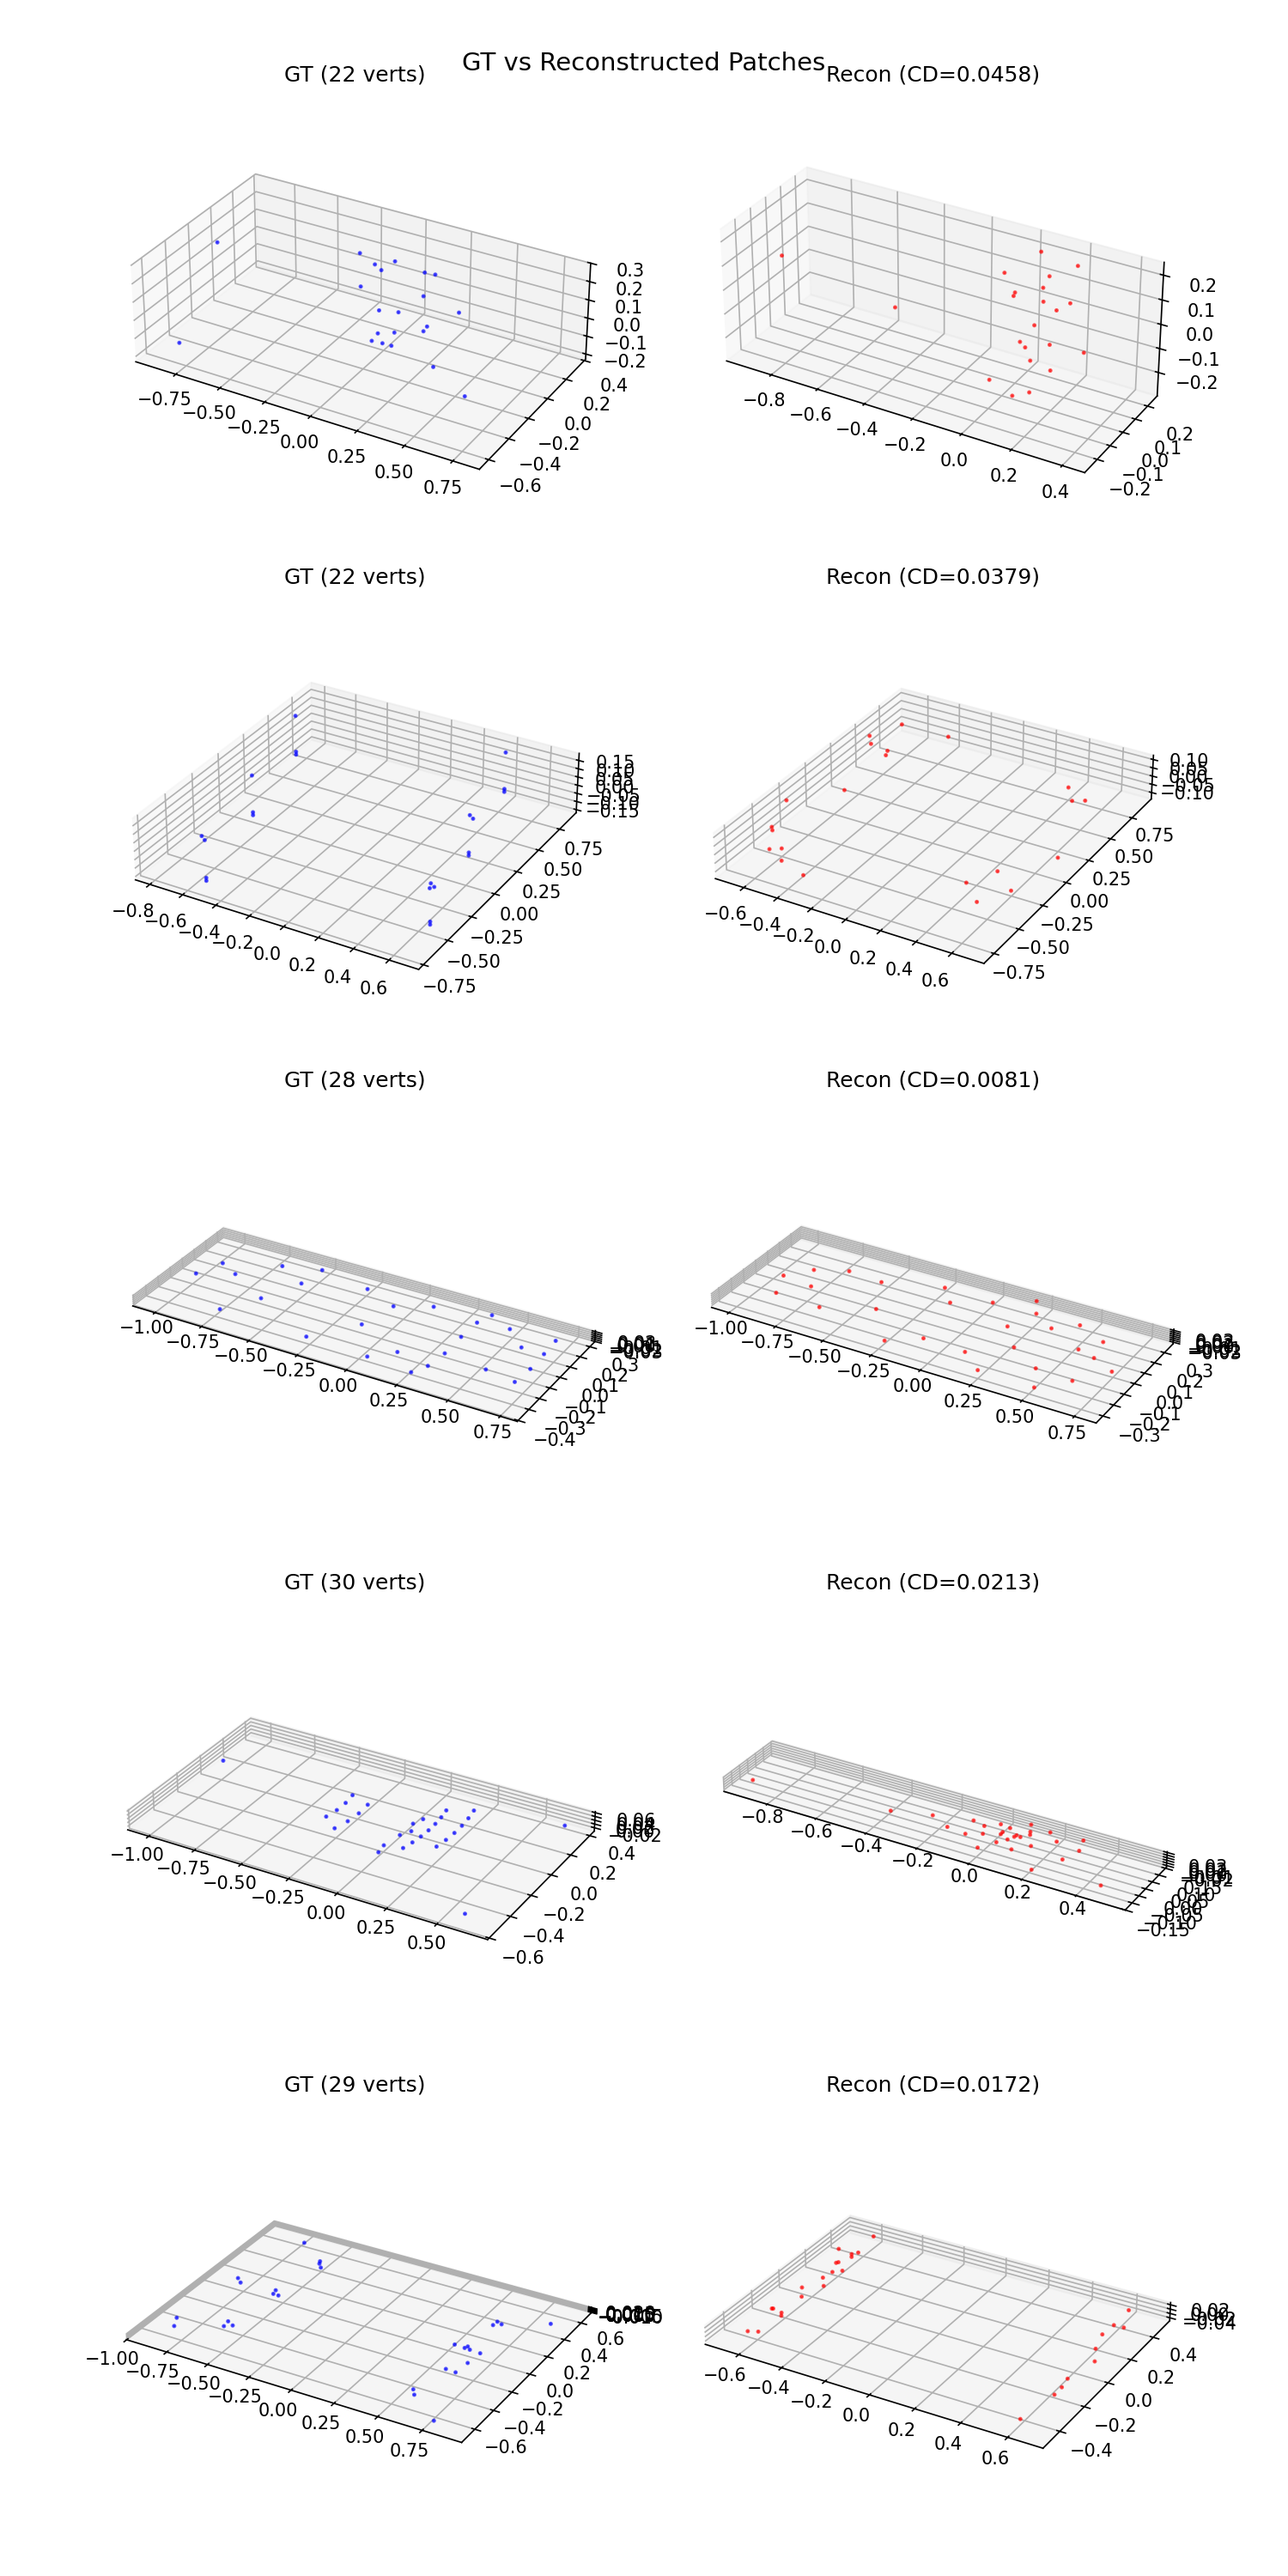
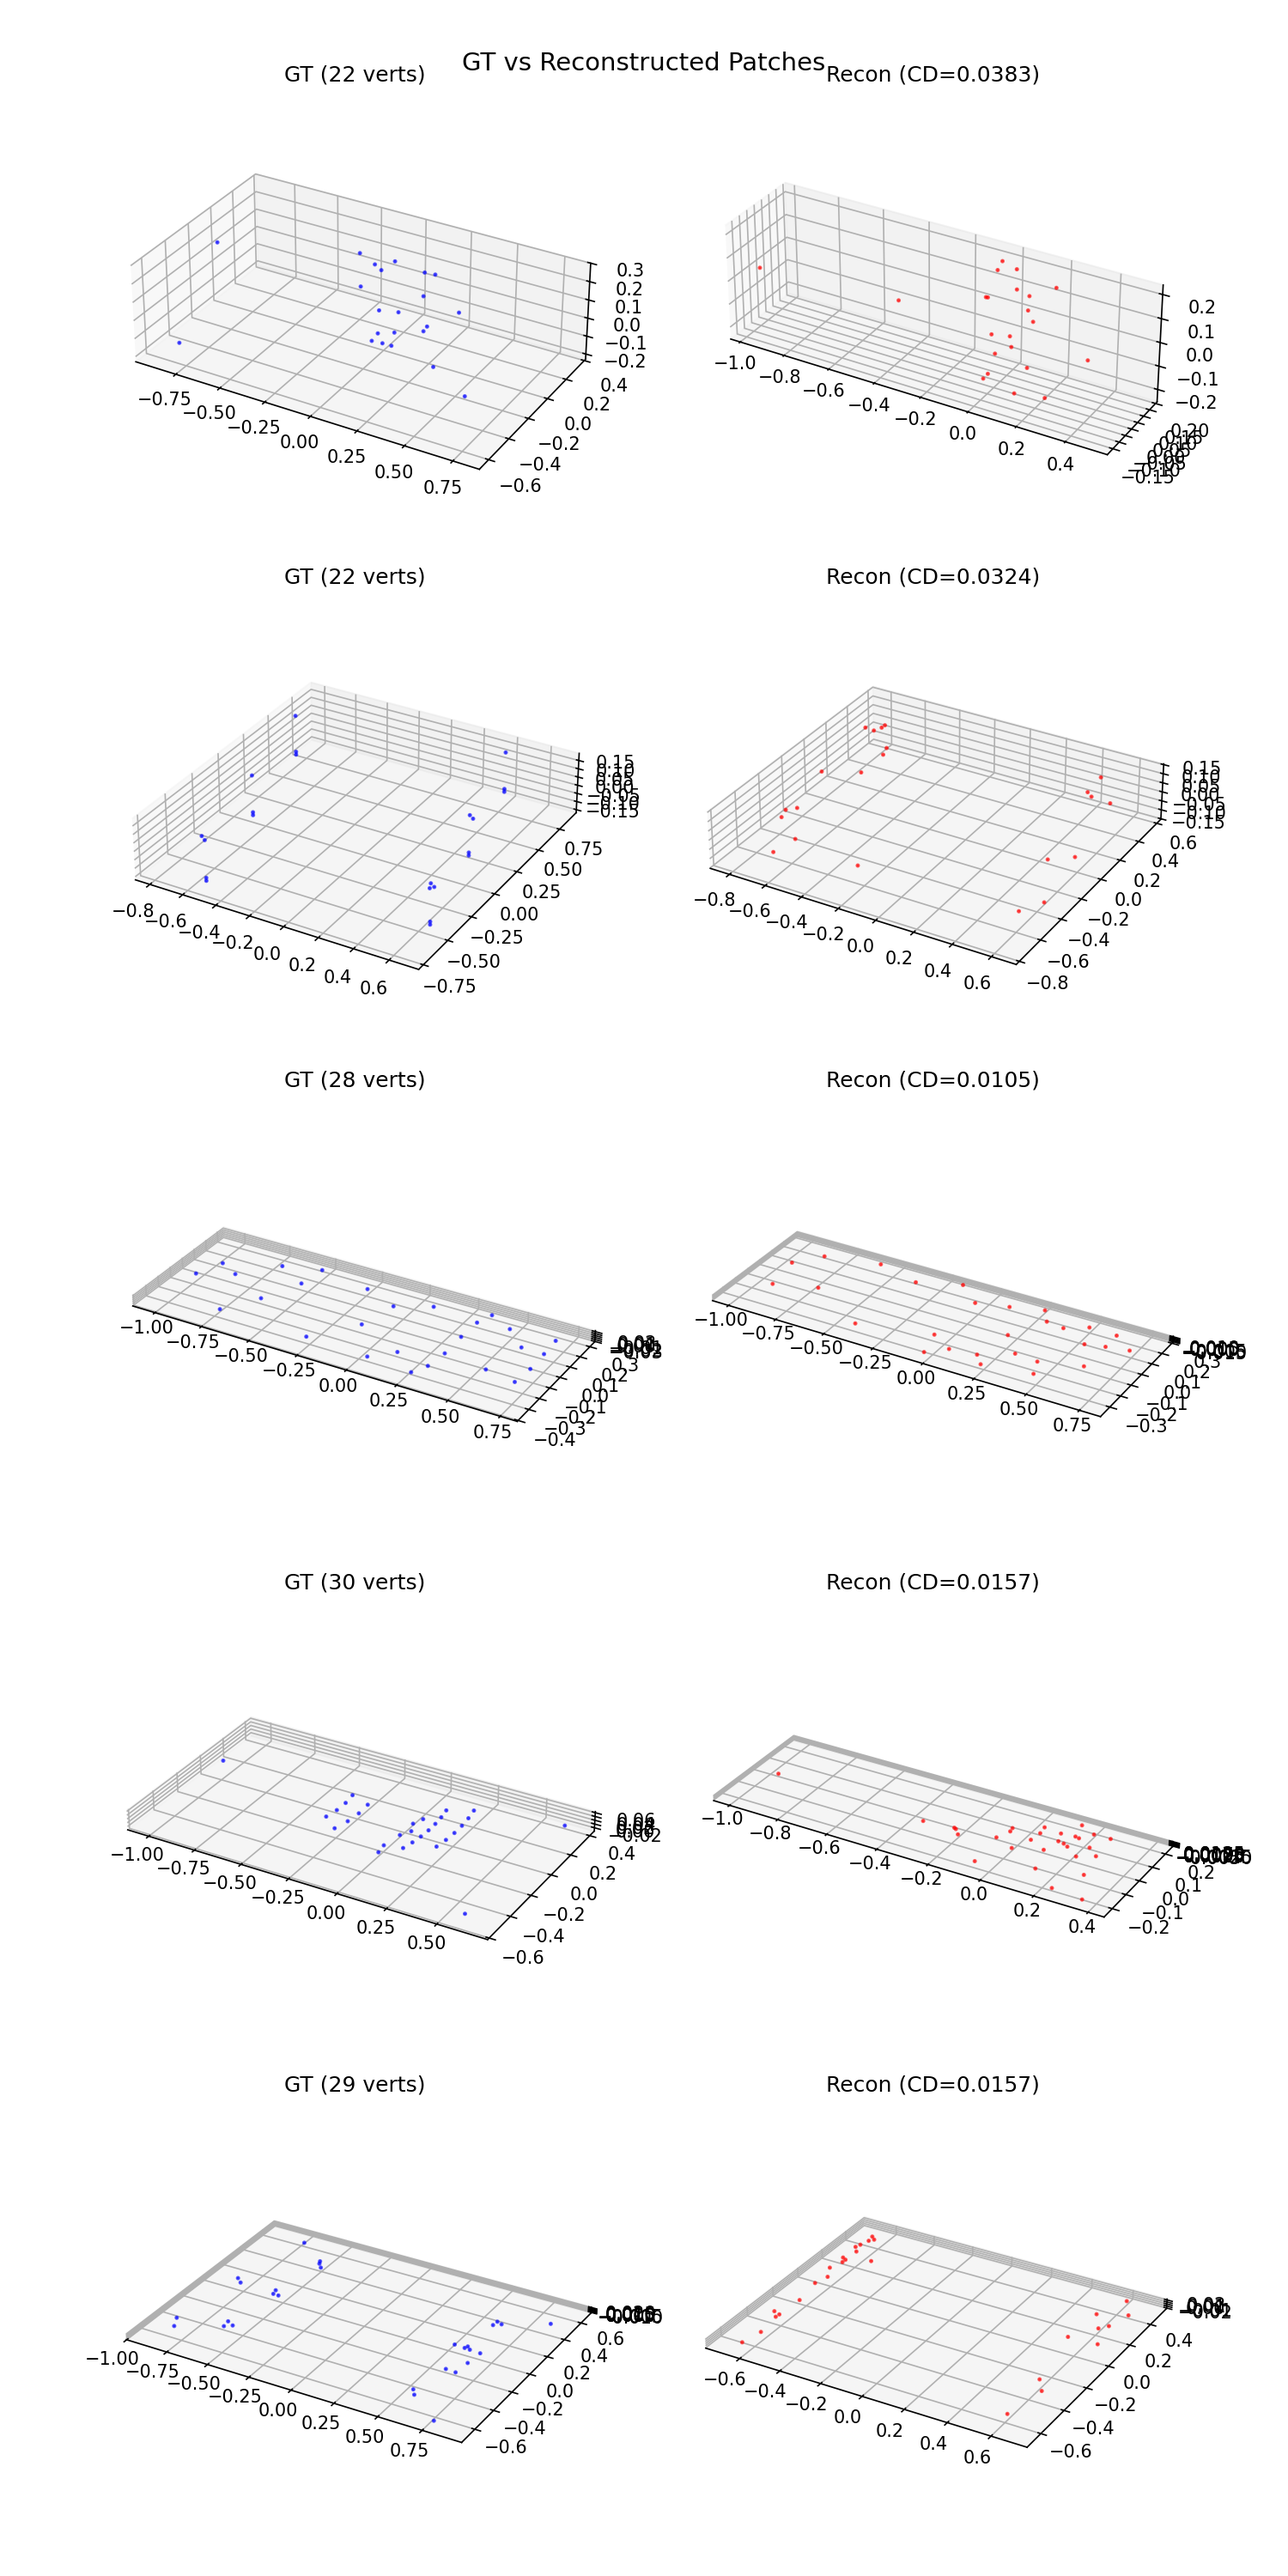
results: RVQ training snapshot epoch 39 — recon loss 0.194
Steady convergence, util 100%. Updated curves + reconstruction samples.

diff --git a/results/rvq_training/20260318_1707_progress_epoch039.md b/results/rvq_training/20260318_1707_progress_epoch039.md
@@ -1,0 +1,31 @@
+# RVQ-VAE Training Progress — 20260318_1707
+
+## Summary
+- Epochs completed: 40
+- Latest loss: 0.2371
+- Recon loss: 0.1941
+- Commit loss: 0.0215
+- Embed loss: 0.0215
+- Codebook utilization: 100.0%
+- Learning rate: 9.23e-05
+- Time per epoch: 190.4s
+
+## Training Curves
+![Training Curves](training_curves.png)
+
+## Reconstruction Samples
+![GT vs Recon](gt_vs_recon.png)
+
+## Epoch History (last 10)
+| Epoch | Loss | Recon | Commit | Embed | Util | LR |
+|-------|------|-------|--------|-------|------|----|
+|  30 | 0.2374 | 0.1977 | 0.0199 | 0.0199 | 100.0% | 9.57e-05 |
+|  31 | 0.2376 | 0.1972 | 0.0202 | 0.0202 | 100.0% | 9.53e-05 |
+|  32 | 0.2379 | 0.1969 | 0.0205 | 0.0205 | 100.0% | 9.50e-05 |
+|  33 | 0.2377 | 0.1964 | 0.0207 | 0.0207 | 100.0% | 9.46e-05 |
+|  34 | 0.2375 | 0.1959 | 0.0208 | 0.0208 | 100.0% | 9.43e-05 |
+|  35 | 0.2374 | 0.1955 | 0.0209 | 0.0209 | 100.0% | 9.39e-05 |
+|  36 | 0.2377 | 0.1952 | 0.0212 | 0.0212 | 100.0% | 9.35e-05 |
+|  37 | 0.2372 | 0.1946 | 0.0213 | 0.0213 | 100.0% | 9.31e-05 |
+|  38 | 0.2374 | 0.1945 | 0.0215 | 0.0215 | 100.0% | 9.27e-05 |
+|  39 | 0.2371 | 0.1941 | 0.0215 | 0.0215 | 100.0% | 9.23e-05 |
